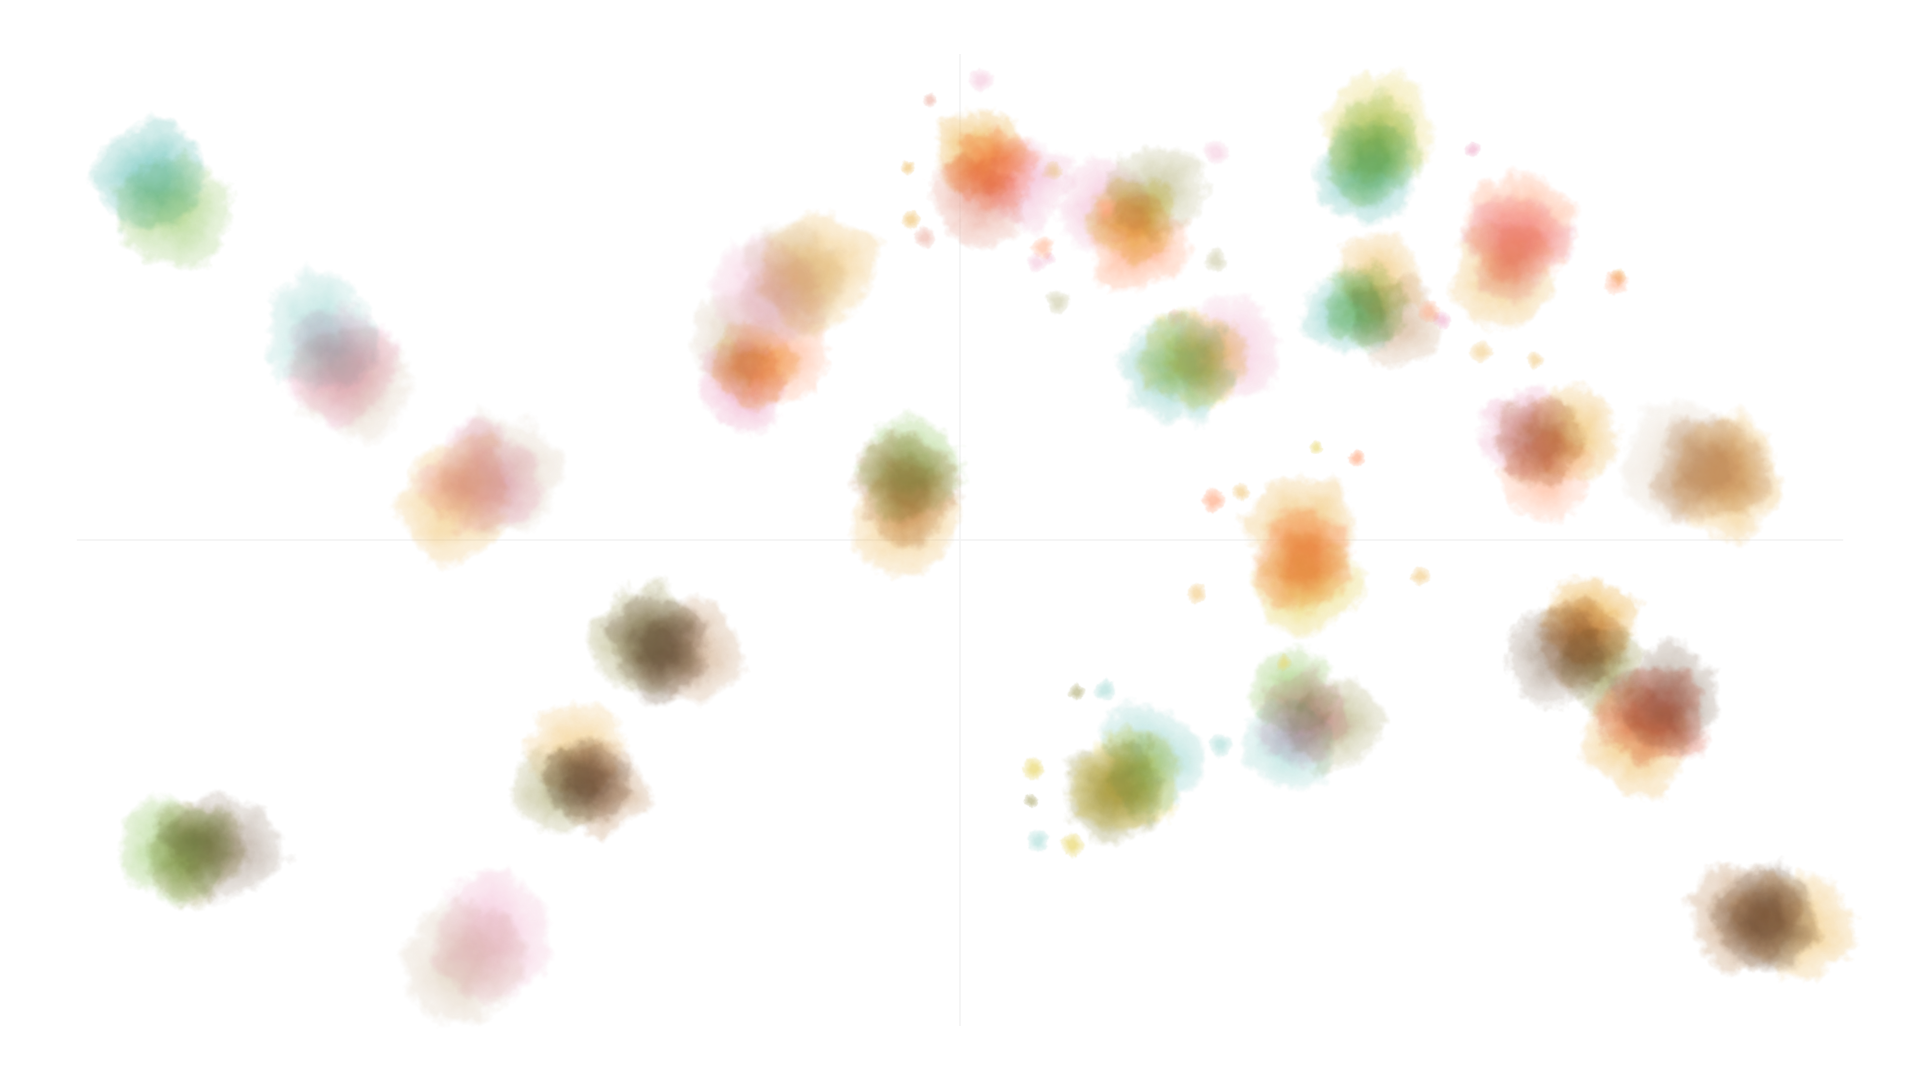
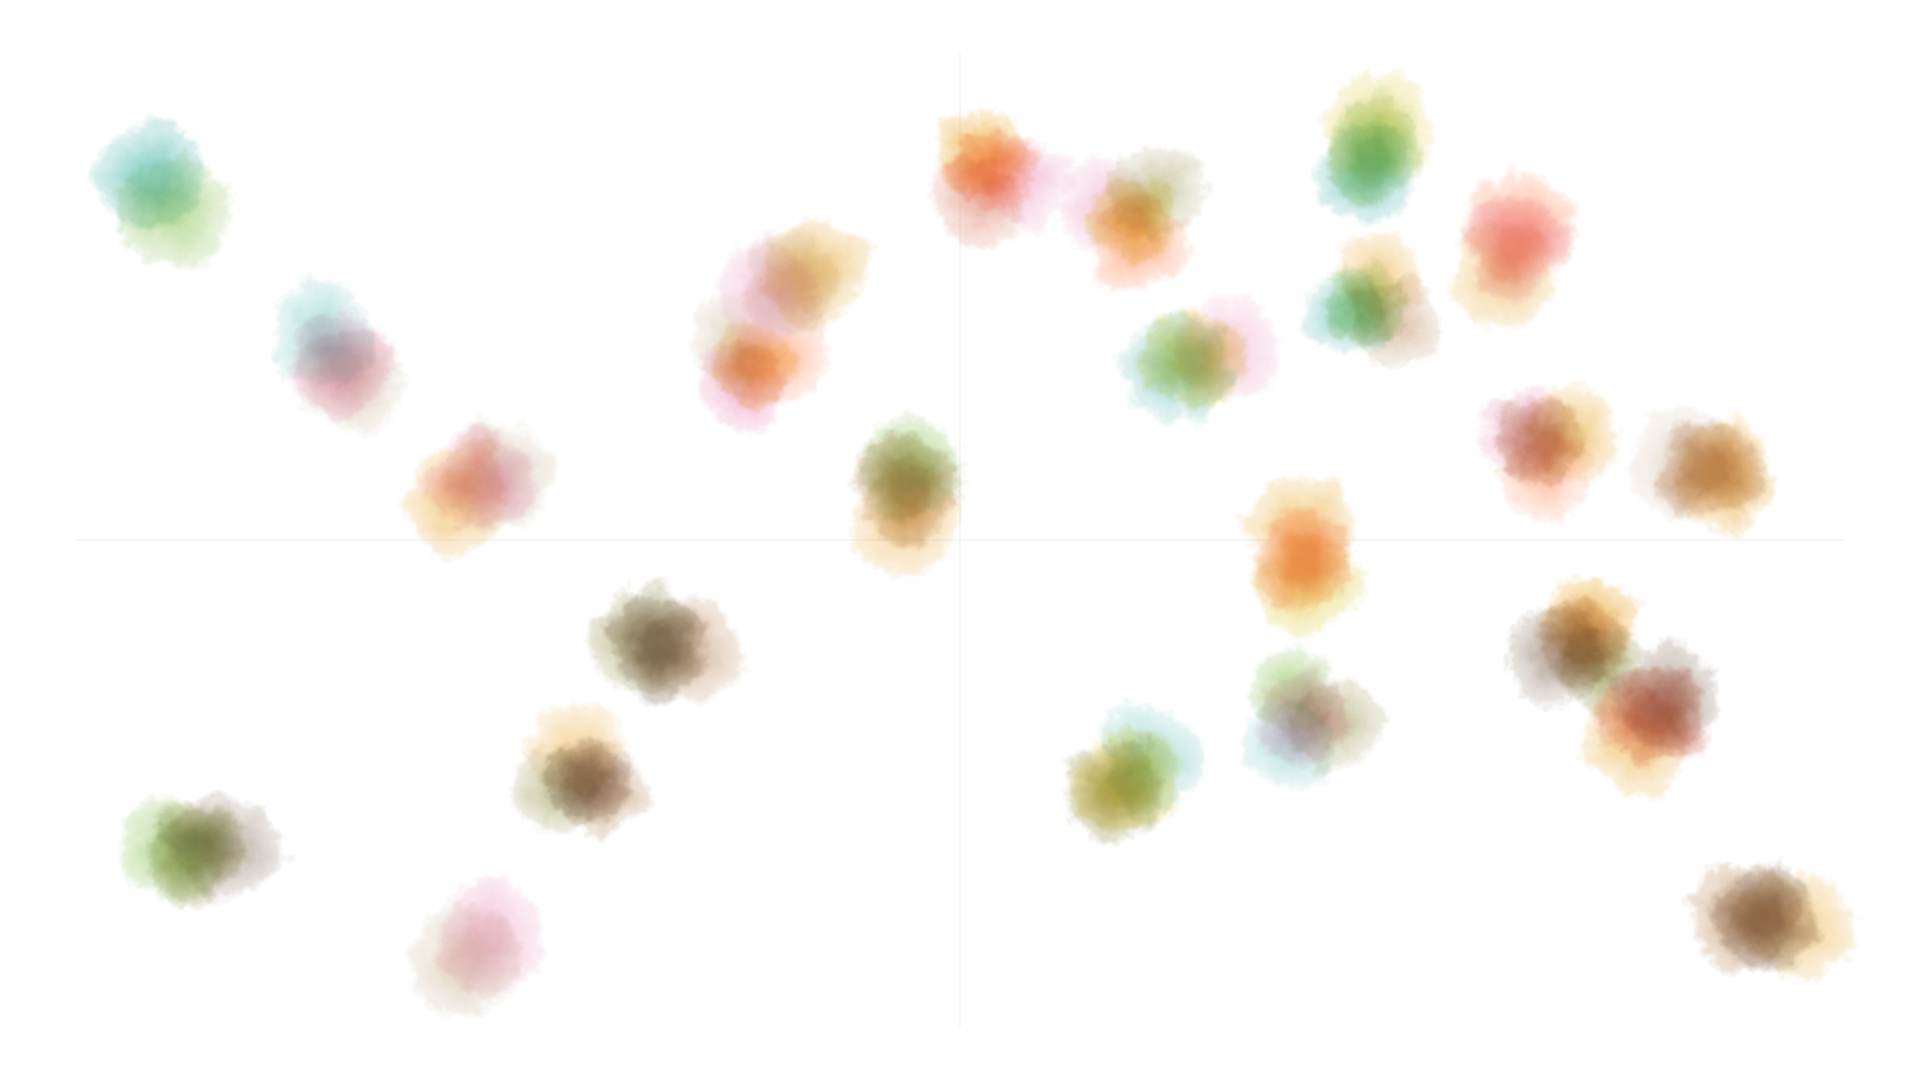
v5: sturdier resume (old-version stacks, storage fallback); remove mood-shaped washes; shorter home headline
Claude-Session: https://claude.ai/code/session_01VYi7RYbVTTHX5Zvyr9oi23

diff --git a/TEA_CANVAS_prototype_v5.html b/TEA_CANVAS_prototype_v5.html
@@ -628,14 +628,6 @@ const KW_MORE={
   spicy:['따끔','화끈','얼얼','정향','팔각','카레'],
   vegetal:['풀밭','잔디','깻잎','오이','시금치','해초','미역','완두','나물','허브']};
 Object.entries(KW_MORE).forEach(([k,a])=>a.forEach(w=>{ if(!FLAVORS[k].kw.includes(w)) FLAVORS[k].kw.push(w); }));
-/* 그날의 느낌: 맛이 아니라 기분에 가까운 말은 색 대신 번짐 모양으로 담는다 */
-const MOODS={lively:['춤','신나','신난','들뜬','들떠','설레','통통','톡톡','경쾌','활기','웃','반짝','두근','신이'],
-  calm:['차분','고요','편안','잔잔','느긋','평온','쉬는','졸리','졸려','나른','포근','안정','조용','쉼'],
-  deep:['묵직','깊','그리','쓸쓸','생각','우울','먹먹','아련','추억','오래된','일기']};
-const MOOD_NOTE={lively:'톡톡 튀는 방울로 담았어요',calm:'넓고 부드러운 번짐으로 담았어요',deep:'가운데가 깊어지는 번짐으로 담았어요'};
-function moodOf(texts){ const t=(texts||[]).filter(Boolean).join(' ').replace(/\s/g,''); let best=null, n=0;
-  for(const [m,ws] of Object.entries(MOODS)){ const c=ws.filter(w=>t.includes(w)).length; if(c>n){ n=c; best=m; } } return best; }
-const recMood=r=>r.mood!==undefined?r.mood:moodOf([...(r.exprs||[]),r.talk&&r.talk.mood,r.comment]);
 /* 나만의 표현: 풍미로 잇지 못한 말은 그대로 남긴다 */
 function ownWords(texts){ const out=[]; (texts||[]).forEach(t=>{ t=String(t||'').trim(); if(t.length<4||/모르겠|없어요/.test(t)||out.includes(t)) return; if(!FKEYS.filter(k=>FLAVORS[k].kw.some(w=>t.replace(/\s/g,'').includes(w))).length) out.push(t); }); return out.slice(0,3); }
 const recOwn=r=>r.own||ownWords(r.exprs);
@@ -970,7 +962,7 @@ function teaDrop(type){
 }
 function recDrop(r){
   if(!r.flavors||!r.flavors.length) return {...teaDrop(r.type),id:'rb-'+r.id};
-  return {id:r.id,mood:recMood(r),comps:[{key:'tea',c:TEAS[r.type].color,w:.5},...r.flavors.map(f=>({key:f.k,c:FLAVORS[f.k].color,w:f.w}))]};
+  return {id:r.id,comps:[{key:'tea',c:TEAS[r.type].color,w:.5},...r.flavors.map(f=>({key:f.k,c:FLAVORS[f.k].color,w:f.w}))]};
 }
 
 /* 화면 속 찻방울은 <canvas>로 두고, 화면을 그린 뒤 한꺼번에 칠한다(크기별 비트맵 캐시) */
@@ -981,10 +973,10 @@ function orb(src,size,cls=''){
   return `<canvas class="wcd ${cls}" data-dk="${esc(drop.id)}" data-sz="${size}" style="width:${size}px;height:${size}px"></canvas>`;
 }
 /* 모든 방울을 ① 수채로: 풍미 색만 쓰고, 풍미가 없으면 맑은 물. 같은 기록은 어디서나 같은 모양(id로 시드) */
-function dropFlav(drop){ const f=(drop.comps||[]).filter(c=>FLAVORS[c.key]); const L=f.length?f.map(c=>({k:c.key,c:FLAVORS[c.key].color,w:c.w})):[{k:'clear',c:CLEAR,w:.6}]; L.mood=drop.mood||null; return L; }
+function dropFlav(drop){ const f=(drop.comps||[]).filter(c=>FLAVORS[c.key]); const L=f.length?f.map(c=>({k:c.key,c:FLAVORS[c.key].color,w:c.w})):[{k:'clear',c:CLEAR,w:.6}]; return L; }
 const dropSid=drop=>String(drop.id).replace(/^draft-/,'n').replace(/^rb-/,'');
 function dropBitmap(drop,px){
-  const k=drop.id+'|'+px+'|'+(drop.mood||'')+'|'+drop.comps.map(c=>c.key+c.w.toFixed(2)).join();
+  const k=drop.id+'|'+px+'|'+drop.comps.map(c=>c.key+c.w.toFixed(2)).join();
   if(BMP.has(k)) return BMP.get(k);
   if(BMP.size>300) BMP.clear();
   const c=document.createElement('canvas'); c.width=c.height=px; const x=c.getContext('2d');
@@ -1109,10 +1101,9 @@ function scoreFlavors(exprs){
   const ks=Object.keys(sc).sort((a,b)=>sc[b]-sc[a]).slice(0,4), mx=sc[ks[0]]||1;
   return ks.map(k=>({k,w:+(.35+.6*sc[k]/mx).toFixed(2)}));
 }
-const draftMood=d=>moodOf([...collectExprs(d).map(e=>e.text),d.talk&&d.talk.mood]);
 function draftDrop(d){
   if(!d.flavors||!d.flavors.length) return {...teaDrop('clear'),id:'draft-'+d.tid};
-  return {id:'draft-'+d.tid,mood:draftMood(d),comps:[{key:'tea',c:TEAS[d.type].color,w:.5},...d.flavors.map(f=>({key:f.k,c:FLAVORS[f.k].color,w:f.w}))]};
+  return {id:'draft-'+d.tid,comps:[{key:'tea',c:TEAS[d.type].color,w:.5},...d.flavors.map(f=>({key:f.k,c:FLAVORS[f.k].color,w:f.w}))]};
 }
 function ensureFlavors(d){ if(!d.flavors){ const ex=collectExprs(d); d.flavors=scoreFlavors(ex); d.exprs=ex.map(e=>e.text); } }
 
@@ -1134,8 +1125,8 @@ const REC_TEAS=[
   {name:'페퍼민트',type:'herb',fl:['fresh','spicy'],note:'시원하고 깔끔한 민트 허브차'},
   {name:'유자차',type:'herb',fl:['citrus','sweet','fresh'],note:'새콤달콤한 유자 향'},
 ];
-function ownHTML(words,mood){ if(!words.length&&!mood) return '';
-  return `<div class="own">${words.length?`<span class="own-l">나만의 표현</span>${words.map(w=>`<q>${esc(w)}</q>`).join('')}`:''}${mood?`<p class="own-m">오늘의 느낌은 ${MOOD_NOTE[mood]}</p>`:''}</div>`; }
+function ownHTML(words){ if(!words.length) return '';
+  return `<div class="own">${words.length?`<span class="own-l">나만의 표현</span>${words.map(w=>`<q>${esc(w)}</q>`).join('')}`:''}</div>`; }
 function recommendTeas(all,n=3){ const w={}; (all||[]).forEach(f=>w[f.k]=f.w); const had=new Set(S.records.map(r=>r.name.replace(/\s/g,'')));
   return REC_TEAS.filter(t=>!had.has(t.name.replace(/\s/g,''))).map(t=>({...t,score:t.fl.reduce((s,k,i)=>s+(w[k]||0)*(1-i*.15),0),match:t.fl.filter(k=>w[k])}))
     .filter(t=>t.score>0).sort((a,b)=>b.score-a.score).slice(0,n); }
@@ -1420,7 +1411,7 @@ compare(){
   <p class="sub">같은 점과 다른 표현을 가볍게 살펴봐요.</p>
   ${d3Box('cmp3d',240)}
   ${d.flavors.length?`<div class="center-chips">${flChips(d.flavors)}</div>`:''}
-  ${ownHTML(ownWords(d.exprs),draftMood(d))}
+  ${ownHTML(ownWords(d.exprs))}
   <div class="cmp"><div class="lb">${I.book}전문가 설명</div><div class="bd" id="cmpExpert">${t.expert}</div></div>
   <div class="cmp"><div class="lb">${I.person}나의 기록</div><div class="bd" id="cmpMine">${esc(myExpression(d))}</div></div>
   <div class="cmp"><div class="lb">${I.rings}공통점</div><div class="bd chips" id="cmpCommon">${t.common.map(c=>`<span class="chip">${c}</span>`).join('')}</div></div>
@@ -1525,7 +1516,7 @@ detail(p){
     <button class="ghost danger-ic" onclick="askDelete('${r.id}')" aria-label="기록 삭제">${I.trash.replace('stroke="#111"','stroke="#D6453D"')}</button></div>
   <div class="det-drop"><canvas id="detCv1"></canvas></div>
   ${r.flavors&&r.flavors.length?`<div class="fav-en det-en">${[...r.flavors].sort((a,b)=>b.w-a.w).map(f=>`<span style="color:${inkText(FLAVORS[f.k].color)}">${HOME_EN[f.k]}</span>`).join('')}</div>`:''}
-  ${ownHTML(recOwn(r),recMood(r))}
+  ${ownHTML(recOwn(r))}
   <div class="detail">
     <div class="dhead"><div><b class="dn">${esc(r.name)}</b><span class="muted">${esc(r.brand)||TEAS[r.type].label}</span><span>${stars(r.stars)} · ${r.date.replace(/\.$/,'')}</span></div></div>
     ${SEED_PHOTOS[r.id]?`<figure class="photo real"><img src="${SEED_PHOTOS[r.id].src}" alt="${esc(r.name)} 사진" loading="lazy"></figure>`:r.photo?`<div class="photo"><span>사진</span></div>`:''}
@@ -1607,8 +1598,9 @@ function openDetail(id){ closeSheet(); if(!(cur() in TAB_OF)||cur()==='my'||cur(
 /* 기록 삭제: 확인 후 지운다 */
 /* 기록 그만하기: 저장해두면 홈에서 이어서 할 수 있다 */
 const PAUSE_KEY='teacanvas.v2.paused';
-function loadPaused(){ try{ const v=JSON.parse(localStorage.getItem(PAUSE_KEY)||'null'); return v&&v.draft&&Array.isArray(v.stack)?v:null; }catch(e){ return null; } }
-function savePaused(v){ try{ v?localStorage.setItem(PAUSE_KEY,JSON.stringify(v)):localStorage.removeItem(PAUSE_KEY); }catch(e){} }
+let PAUSED_MEM;  // 브라우저 저장소를 못 쓰는 환경에서도 이 화면을 닫기 전까지는 이어할 수 있게
+function loadPaused(){ let v=PAUSED_MEM; try{ const raw=localStorage.getItem(PAUSE_KEY); if(raw!==null) v=JSON.parse(raw); }catch(e){} return v&&v.draft&&Array.isArray(v.stack)&&v.stack.length?v:null; }
+function savePaused(v){ PAUSED_MEM=v||null; try{ v?localStorage.setItem(PAUSE_KEY,JSON.stringify(v)):localStorage.removeItem(PAUSE_KEY); }catch(e){} }
 function askQuit(){
   openSheet(`<div class="grab"></div>
     <h1 class="t" style="margin-top:14px">기록을 그만할까요?</h1>
@@ -1624,8 +1616,12 @@ function quitRecord(keep){
   toast(keep?'기록을 저장해뒀어요':'기록을 지웠어요');
 }
 function resumeRecord(){
-  const v=loadPaused(); if(!v) return; savePaused(null);
-  closeSheet(); stopTimer(); S.feelStep=null; S.draft=v.draft; S.chatMode=v.chatMode||'chat'; S.listening=false; NAV_DIR='fade'; S.stack=v.stack; render();
+  const v=loadPaused(); if(!v){ rerender(); return toast('이어할 기록을 찾지 못했어요'); } savePaused(null);
+  // 예전 버전에서 멈춘 기록(지금은 없는 화면)이면 채팅으로 이어간다
+  const OLD=['teaInput','teaConfirm','searchError','brew','feel','depth','deepBrew','deepOrigin','deepTemp','deepMemo'];
+  let stack=v.stack.filter(x=>x&&SCREENS[x.name]&&!OLD.includes(x.name)); if(!stack.length||!['chat','organizing','analyzing','compare'].includes(stack[stack.length-1].name)) stack=[{name:'chat',params:{}}];
+  if(['organizing','analyzing'].includes(stack[stack.length-1].name)) stack=[{name:'chat',params:{}}];
+  closeSheet(); stopTimer(); S.feelStep=null; S.draft=v.draft; S.chatMode=v.chatMode||'chat'; S.listening=false; NAV_DIR='fade'; S.stack=stack; render();
 }
 function dropPaused(){ savePaused(null); rerender(); toast('저장해둔 기록을 지웠어요'); }
 function askDelete(id){
@@ -2162,7 +2158,7 @@ function saveRecord(){
   const rec={id:S.records.some(q=>q.id==='n'+d.tid)?'n'+Date.now():'n'+d.tid,type:d.type,name:d.name||TEAS[d.type].label,brand:d.brand,ts:now.getTime(),date:fmtDate(now),stars:d.stars,comment:d.comment,photo:d.photo,
     canvas:{x:+d.canvas.x.toFixed(3),y:+d.canvas.y.toFixed(3),i:+d.canvas.i.toFixed(2)},memo,tags:[...new Set(tags)],flavors:d.flavors,exprs:d.exprs,
     chat:d.chat.filter(m=>m.who!=='sys').map(({who,text,color})=>color?{who,text,color}:{who,text}),voice:d.voice,deep:dp,
-    talk:d.talk||null, own:ownWords(d.exprs), mood:draftMood(d), drinkMin:d.drinkAt?Math.max(1,Math.round(((d.endAt||Date.now())-d.drinkAt)/60000)):null,
+    talk:d.talk||null, own:ownWords(d.exprs), drinkMin:d.drinkAt?Math.max(1,Math.round(((d.endAt||Date.now())-d.drinkAt)/60000)):null,
     teaColor:d.feel.color&&d.feel.color!=='잘 모르겠어요'?{name:d.feel.color,hex:d.feel.colorHex||null}:null};
   S.records.unshift(rec); S.lastSaved=rec; persist();
   stopTimer(); closeSheet(); S.draft=null;
@@ -2212,21 +2208,16 @@ function runInfusion(){
 /* 캔버스 ①: 모든 잔이 같은 크기. 강한 풍미는 진하게·약한 풍미는 옅게, 한 자리에 겹쳐 홈처럼 젖은 채로 번진다 */
 const CV1={ws:{}}, CV_SPREAD=2.9;
 function cvWash(N,k,hex,seed){ const id=N+'|'+k+'|'+seed; let o=CV1.ws[id]; if(!o){ const w=makeWash(N,hex,seed); let lt=-1,c=null; o=CV1.ws[id]={frame(t){ t=Math.round(t*20)/20; if(t!==lt){ lt=t; c=w.frame(t); } return c; }}; } return o; }
-function recFlav(r){ const f=(r.flavors||[]).filter(x=>FLAVORS[x.k]); const L=f.length?f.map(x=>({c:FLAVORS[x.k].color,k:x.k,w:x.w})):[{c:CLEAR,k:'clear',w:.6}]; L.mood=recMood(r); return L; }
+function recFlav(r){ const f=(r.flavors||[]).filter(x=>FLAVORS[x.k]); const L=f.length?f.map(x=>({c:FLAVORS[x.k].color,k:x.k,w:x.w})):[{c:CLEAR,k:'clear',w:.6}]; return L; }
 function parts1(L,R,seed){ L=[...L].sort((a,b)=>b.w-a.w); const m=L[0].w||1, n=L.length;
   const pr=n===1?1:n===2?.8:n===3?.76:n===4?.66:.6, pd=n===2?.24:n===3?.3:n===4?.36:.32;   // 색이 2~4개 이상이어도 한 잔의 크기가 비슷하도록
   return L.map((p,i)=>{ const ang=n<=4?seed+(i===0?0:(i-1)*Math.PI*2/Math.max(1,n-1)):seed+i*2.39996, d=n===1?0:R*(i===0?(n===2?pd:.08):pd); return {...p,dx:Math.cos(ang+(n===2&&i===0?Math.PI:0))*d,dy:Math.sin(ang+(n===2&&i===0?Math.PI:0))*d,r:R*pr,a:.45+.55*(p.w/m)}; }).reverse(); }
 function drawRec1(x,L,cx,cy,R,id,t,alpha=.94){
-  const mood=L.mood||null; if(mood==='calm'){ R*=1.1; alpha*=.88; }   // 차분: 넓고 부드럽게
   const seed=WC.hash(id)%1000/1000*6.28, P=parts1(L,R,seed);
-  const ext=Math.max(R*(mood==='lively'?1.8:0),Math.max(...P.map(p=>Math.hypot(p.dx,p.dy)+p.r))*1.35), S=Math.ceil(ext*2);
+  const ext=Math.max(...P.map(p=>Math.hypot(p.dx,p.dy)+p.r))*1.35, S=Math.ceil(ext*2);
   const o=document.createElement('canvas'); o.width=o.height=S; const ox=o.getContext('2d'); ox.globalCompositeOperation='multiply';
   P.forEach((p,i)=>{ const D=p.r*3.6, N=Math.max(80,Math.min(240,Math.round(D*.85))), lt=Math.max(0,Math.min(CV_SPREAD,t-i*.12)); if(lt<=0) return;
     ox.globalAlpha=p.a; ox.drawImage(cvWash(N,p.k,p.c,WC.hash(id+p.k)%100000).frame(lt),S/2+p.dx-D/2,S/2+p.dy-D/2,D,D); });
-  const lt0=Math.max(0,Math.min(CV_SPREAD,t-.3)), top=P[P.length-1];
-  if(mood==='deep'&&lt0>0){ const D=top.r*.8*3.6; ox.globalAlpha=.32; ox.drawImage(cvWash(120,top.k,top.c,WC.hash(id+'deep')%100000).frame(lt0),S/2-D/2,S/2-D/2,D,D); }   // 깊음: 가운데를 한 번 더
-  if(mood==='lively'&&lt0>0){ const r=WC.rng(WC.hash(id+'pop')); for(let j=0;j<7;j++){ const p=P[j%P.length], a=r()*6.283, dd=R*(1.05+.4*r()), D=R*(.35+.3*r());   // 경쾌: 둘레로 톡톡 튀는 작은 방울
-      ox.globalAlpha=.75*p.a; ox.drawImage(cvWash(70,p.k,p.c,WC.hash(id+'pop'+j)%100000).frame(lt0),S/2+Math.cos(a)*dd-D/2,S/2+Math.sin(a)*dd-D/2,D,D); } }
   x.save(); x.globalAlpha=alpha; x.drawImage(o,cx-S/2,cy-S/2); x.restore();
 }
 const R1=W=>W*.1*Math.pow(10/Math.max(10,S.records.length),.3);
